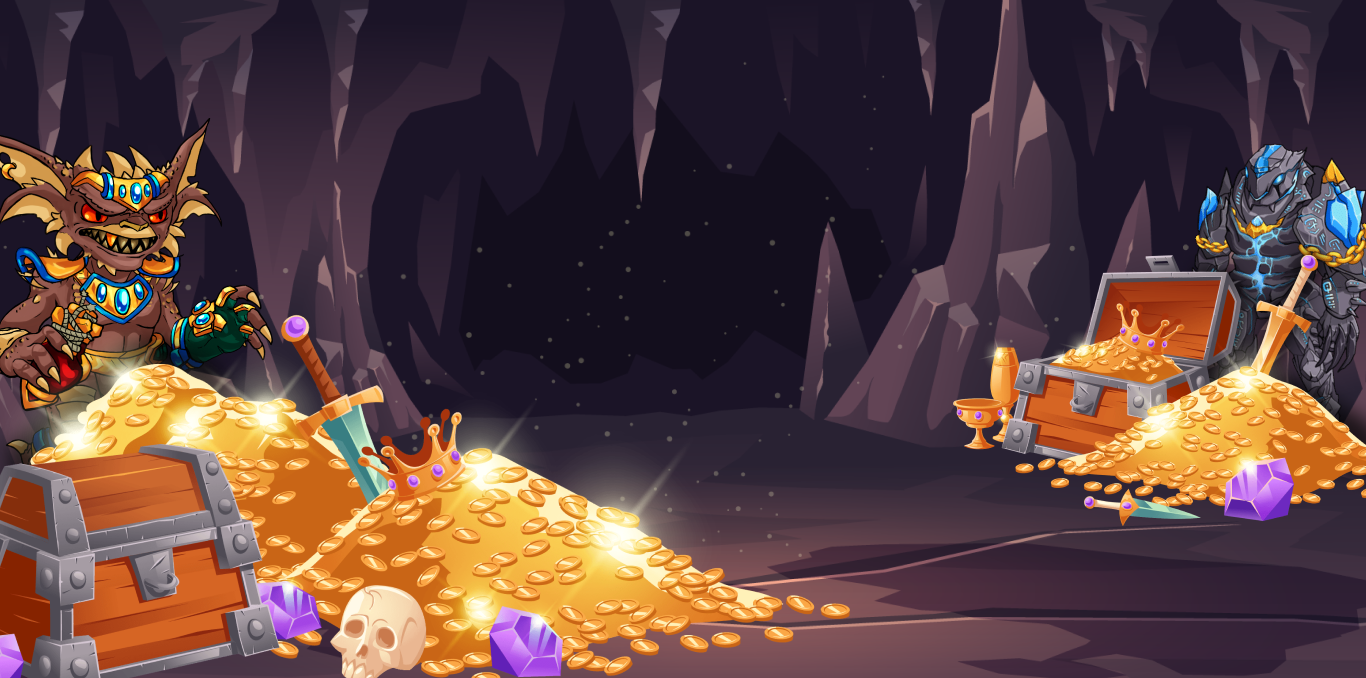
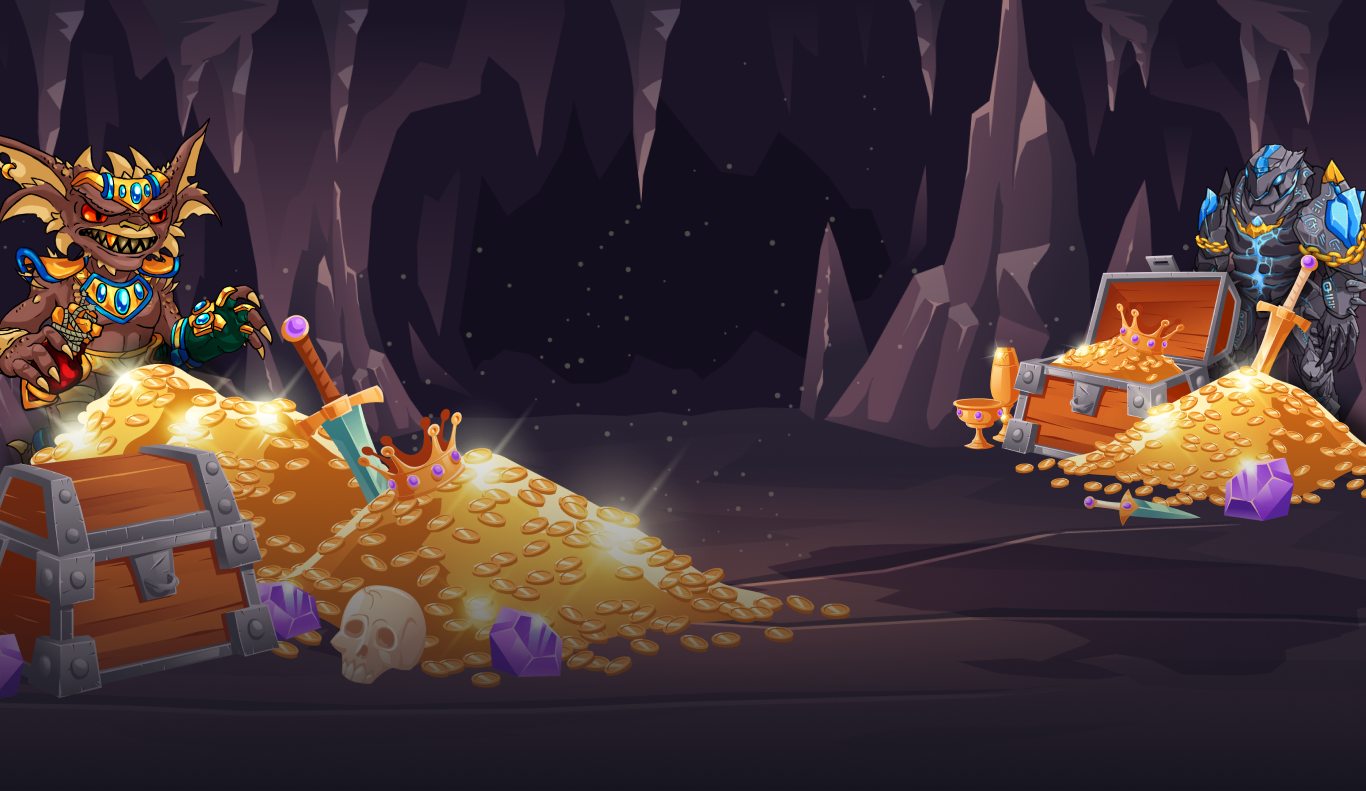
bank tab

diff --git a/src/components/Bank/Bank.tsx b/src/components/Bank/Bank.tsx
@@ -1,0 +1,39 @@
+import React from 'react';
+import cards from '../../cardsInfo.json';
+import { Card } from '../Card';
+
+export const Bank: React.FC = () => {
+  return (
+    <section
+      className="Bank Main__Bank"
+    >
+      <h2 className="Bank__title">
+        Кристаллы Незера
+      </h2>
+      <ul className="Bank__list">
+        {cards.map(card => (
+          <li
+            className="Bank__item"
+            key={card.id}
+          >
+            <Card card={card} />
+          </li>
+        ))}
+      </ul>
+      <div className="Bank__line"></div>
+      <h2 className="Bank__title">
+        Монеты Незера
+      </h2>
+      <ul className="Bank__list">
+        {cards.map(card => (
+          <li
+            className="Bank__item"
+            key={card.id}
+          >
+            <Card card={card} />
+          </li>
+        ))}
+      </ul>
+    </section>
+  );
+};

diff --git a/src/components/MonsterBoxes/MonsterBoxes.scss b/src/components/MonsterBoxes/MonsterBoxes.scss
@@ -1,0 +1,44 @@
+.MonsterBoxes {
+  position: relative;
+  background-color: #242333;
+  border-bottom-right-radius: 8px;
+  border-bottom-left-radius: 8px;
+
+  &__title {
+    display: flex;
+    align-items: center;
+    justify-content: center;
+    padding: 30px 0 10px;
+    margin: 0;
+    color: #fff;
+    text-align: center;
+  }
+
+  &__list {
+    display: grid;
+    height: 65vh;
+    gap: 20px;
+    grid-template-columns: repeat(auto-fit, minmax(220px, 1fr));
+    margin: 0;
+    padding: 20px;
+    list-style: none;
+    overflow: scroll;
+  }
+
+  &__item {
+    display: flex;
+    flex-direction: column;
+    align-items: center;
+  }
+
+  &__scroll-eclipse {
+    position: absolute;
+    bottom: 0%;
+    width: 100%;
+    height: 150px;
+    pointer-events: none;
+    border-radius: 0 0 8px 8px;
+    background-image: linear-gradient(to bottom, transparent, #242333);
+  }
+}
+

diff --git a/src/components/MonsterBoxes/MonsterBoxes.tsx b/src/components/MonsterBoxes/MonsterBoxes.tsx
@@ -1,0 +1,26 @@
+import React from 'react';
+import cards from '../../cardsInfo.json';
+import { Card } from '../Card';
+
+export const MonsterBoxes: React.FC = () => {
+  return (
+    <section
+      className="MonsterBoxes Main__MonsterBoxes"
+    >
+      <h2 className="MonsterBoxes__title">
+        Кристаллы Незера
+      </h2>
+      <ul className="MonsterBoxes__list">
+        {cards.map(card => (
+          <li
+            className="MonsterBoxes__item"
+            key={card.id}
+          >
+            <Card card={card} />
+          </li>
+        ))}
+      </ul>
+      <div className="MonsterBoxes__scroll-eclipse"></div>
+    </section>
+  );
+};

diff --git a/src/components/Bank/Bank.scss b/src/components/Bank/Bank.scss
@@ -1,4 +1,4 @@
-.CardsBox {
+.Bank {
   position: relative;
   background-color: #242333;
   border-bottom-right-radius: 8px;
@@ -16,7 +16,6 @@
 
   &__list {
     display: grid;
-    height: 65vh;
     gap: 20px;
     grid-template-columns: repeat(auto-fit, minmax(220px, 1fr));
     margin: 0;
@@ -31,14 +30,9 @@
     align-items: center;
   }
 
-  &__scroll-eclipse {
-    position: absolute;
-    bottom: 0%;
-    width: 100%;
-    height: 150px;
-    pointer-events: none;
-    border-radius: 0 0 8px 8px;
-    background-image: linear-gradient(to bottom, transparent, #242333);
+  &__line {
+    height: 1px;
+    background-color: #9794c615;
   }
 }
 

diff --git a/src/components/Main/Main.tsx b/src/components/Main/Main.tsx
@@ -1,5 +1,7 @@
 import React from 'react';
-import { CardsBox } from '../CardsBox';
+import { Route } from 'react-router-dom';
+import { Bank } from '../Bank';
+import { MonsterBoxes } from '../MonsterBoxes';
 import { Navigation } from '../Navigation';
 
 export const Main: React.FC = () => {
@@ -7,7 +9,12 @@ export const Main: React.FC = () => {
     <main className="Main">
       <div className="Main__content content">
         <Navigation />
-        <CardsBox />
+        <Route path="/" exact>
+          <MonsterBoxes />
+        </Route>
+        <Route path="/bank" exact>
+          <Bank />
+        </Route>
       </div>
     </main>
   );

diff --git a/src/components/Navigation/Navigation.scss b/src/components/Navigation/Navigation.scss
@@ -47,6 +47,7 @@
       background-size: 100% 3px;
       background-image: linear-gradient(to right, #f52cbf33 0%, #ff7c4633 100%), linear-gradient(to right, #9794c633 0%, transparent 100%);
       background-color: transparent;
+      animation: activeLinkBack 0.3s;
 
       &::after {
         position: absolute;
@@ -68,5 +69,15 @@
 
   100% {
     width: 80%;
+  }
+}
+
+@keyframes activeLinkBack {
+  0% {
+    background-position: 100% 0, 100% 0;
+  }
+
+  100% {
+    background-position: 0 100%, 0 100%;
   }
 }

diff --git a/src/components/Main/Main.scss b/src/components/Main/Main.scss
@@ -1,12 +1,13 @@
 .Main {
   background-image: url(../../images/mainBackGroun.png);
-  background-size: cover;
+  background-size: 100% 100vh;
   background-position: top;
+  background-repeat: no-repeat;
   min-height: calc( 100vh - #{$header-height});
   padding: 10px 0 30px;
+  background-color: #16151F;
 
   &__content {
     max-width: 1080px;
   }
 }
-

diff --git a/src/main.scss b/src/main.scss
@@ -6,5 +6,6 @@
 @import './components/Header/Header.scss';
 @import './components/Main/Main.scss';
 @import './components/Navigation/Navigation.scss';
-@import './components/CardsBox/CardsBox.scss';
+@import './components/MonsterBoxes/MonsterBoxes.scss';
+@import './components/Bank/Bank.scss';
 @import './components/Card/Card.scss';

diff --git a/src/components/MonsterBoxes/index.ts b/src/components/MonsterBoxes/index.ts
@@ -1,0 +1,1 @@
+export * from './MonsterBoxes';

diff --git a/src/components/Bank/index.ts b/src/components/Bank/index.ts
@@ -1,0 +1,1 @@
+export * from './Bank';
